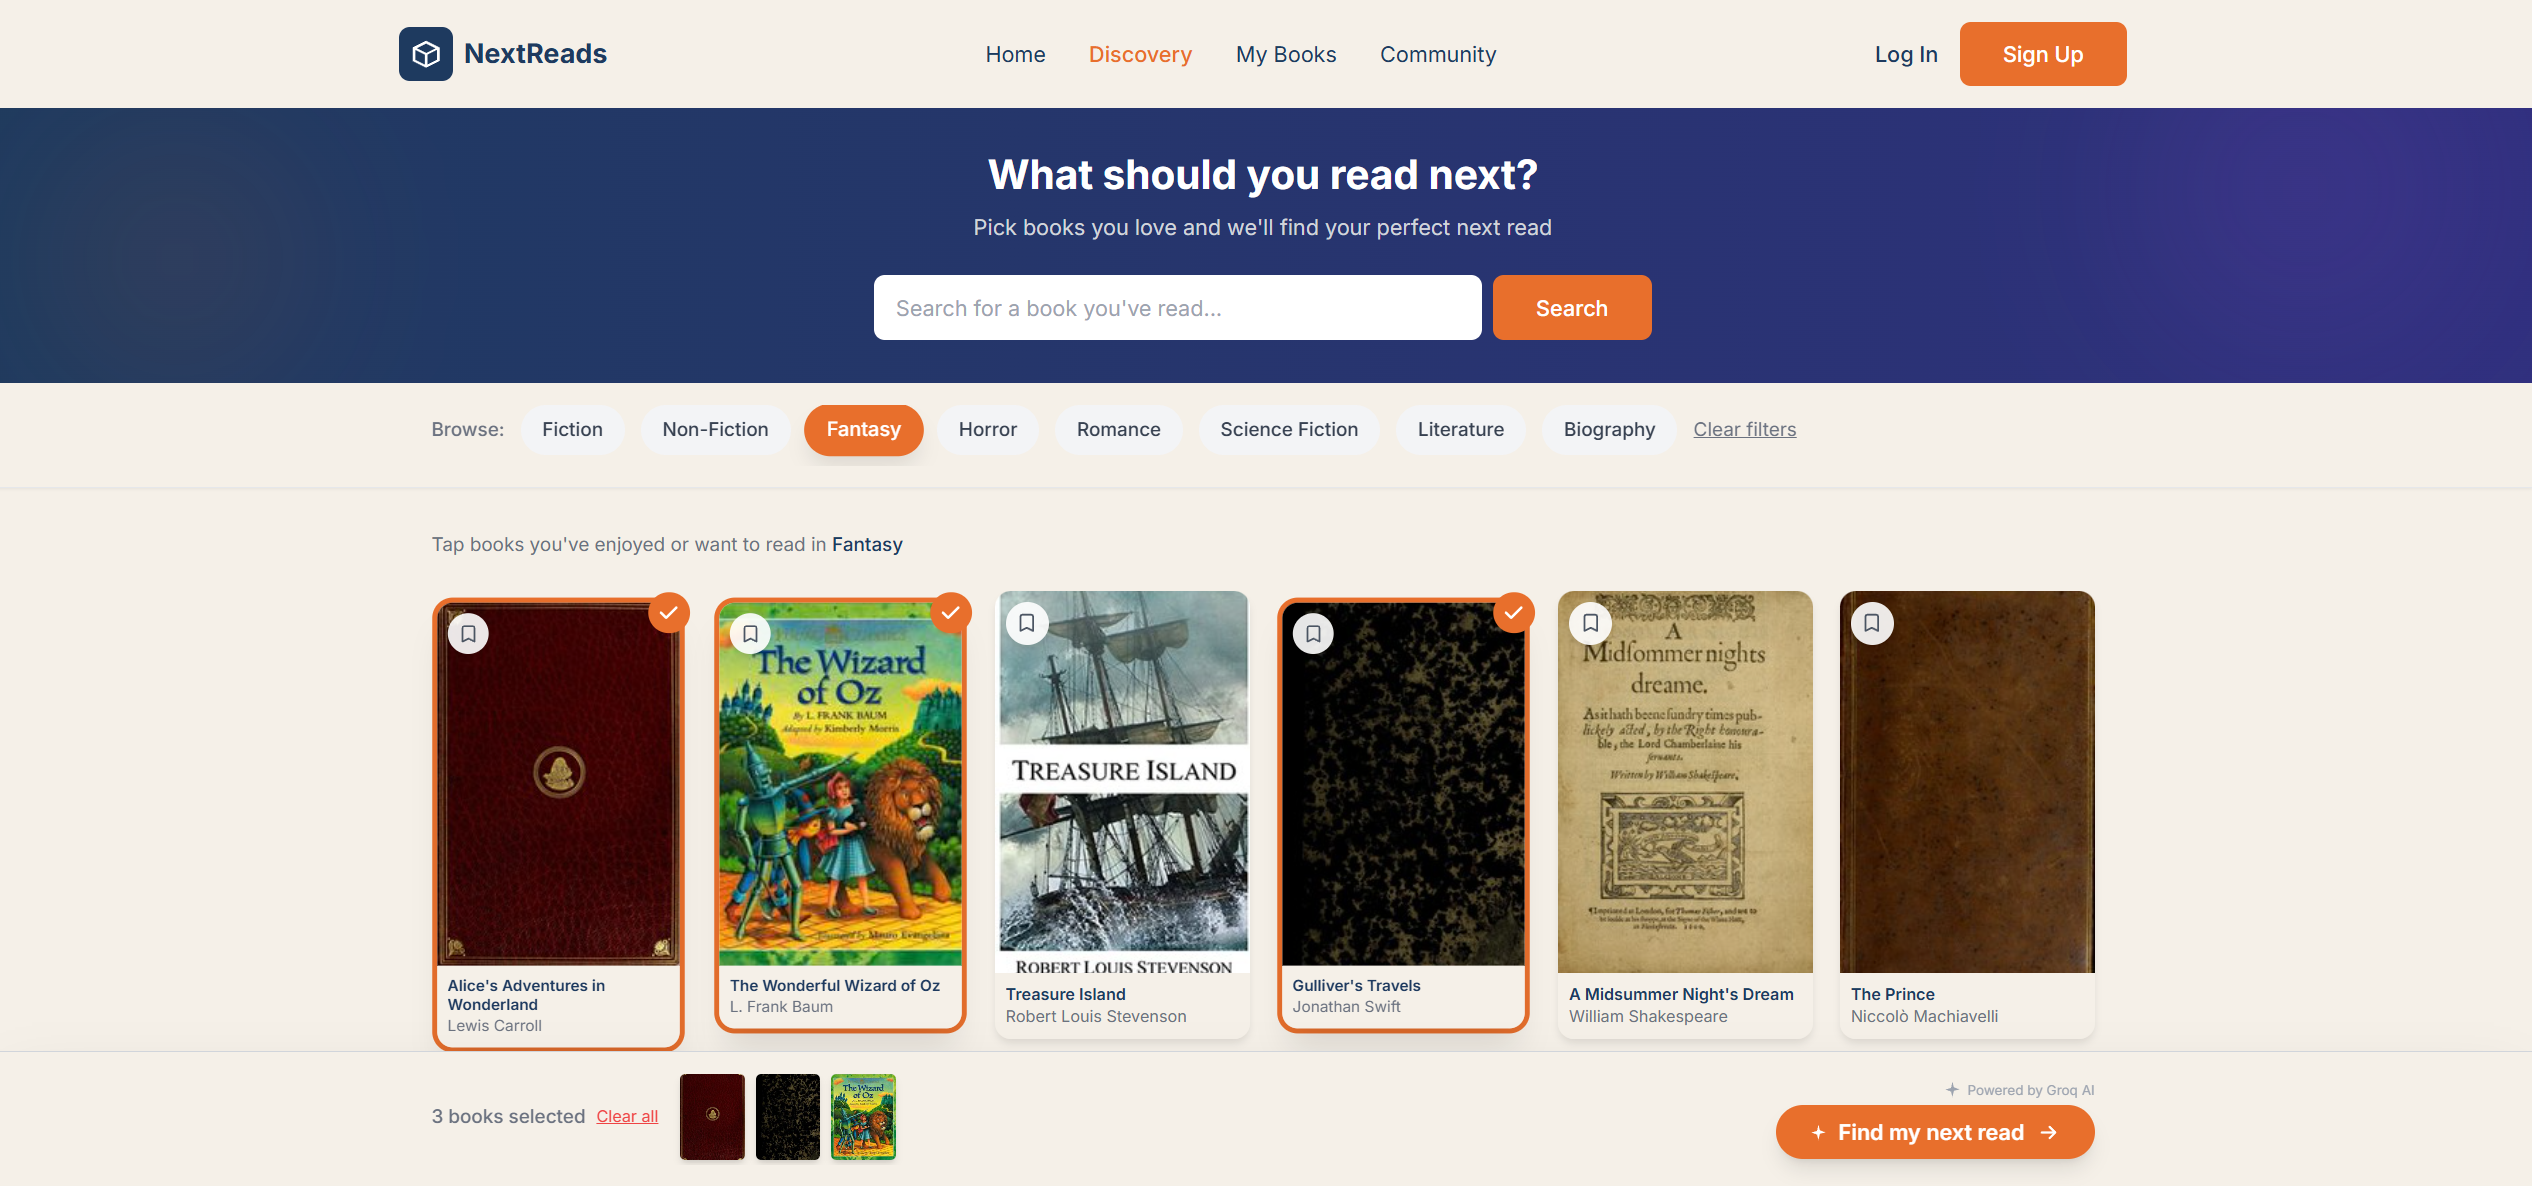
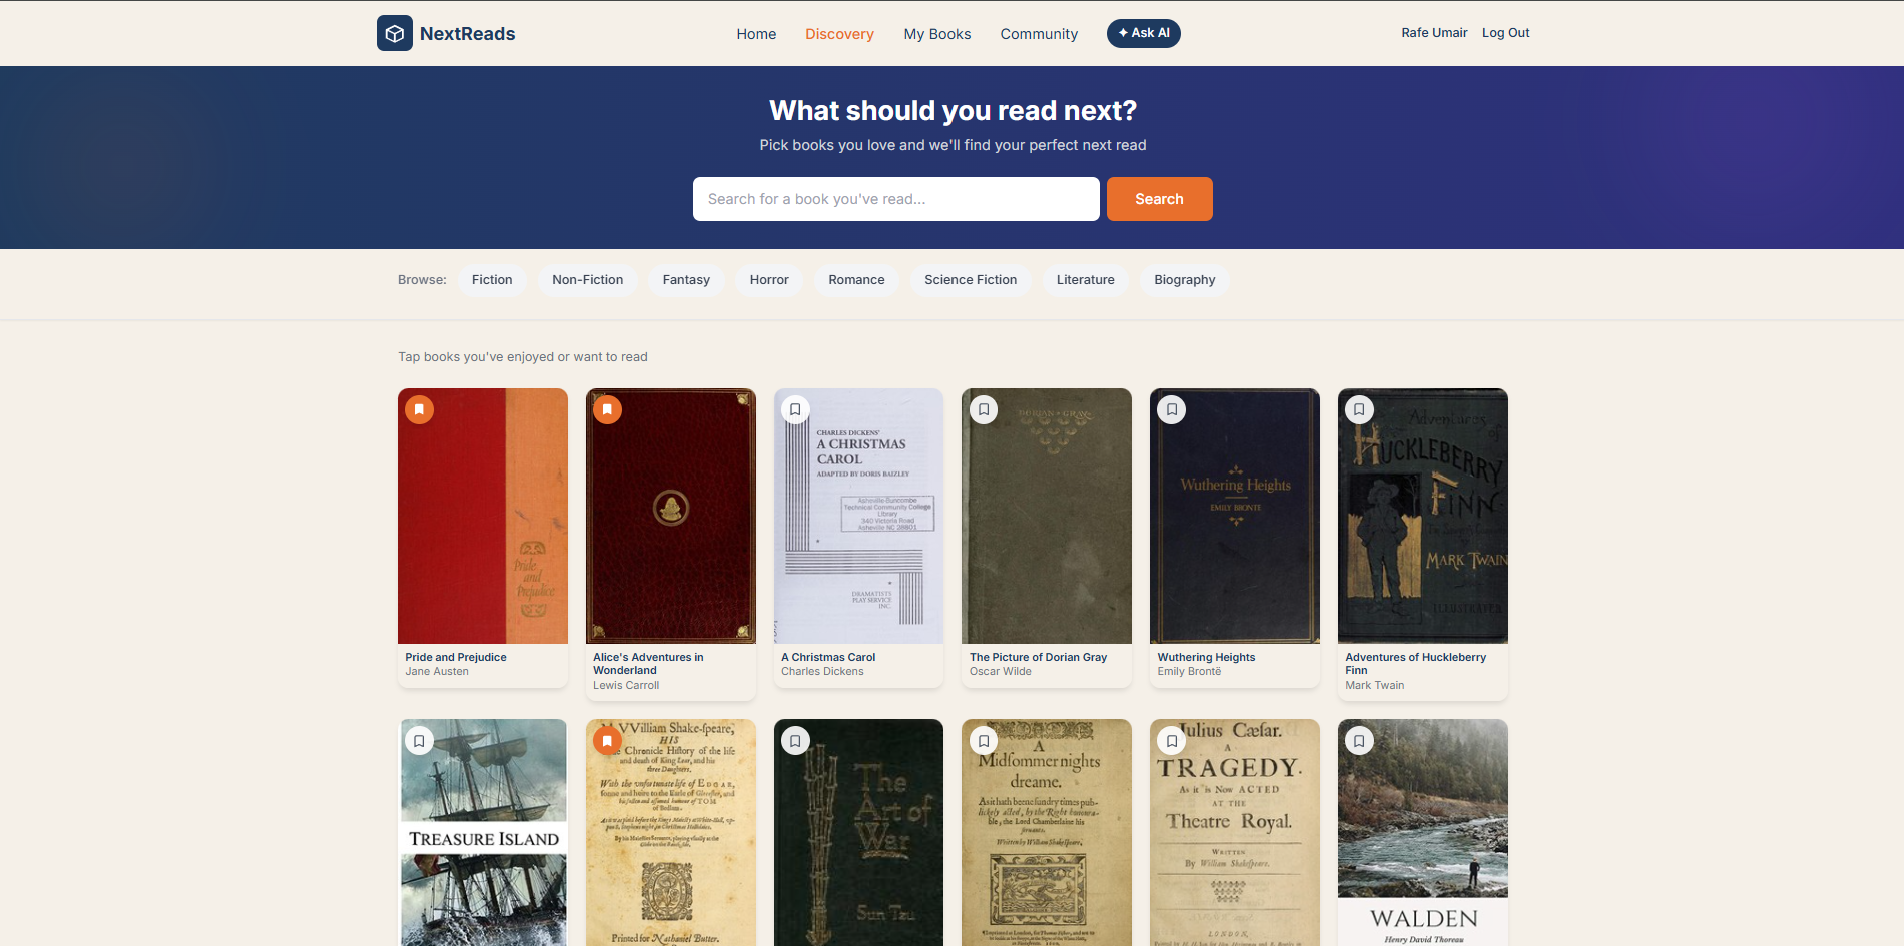
Improved 'NextReads' display

diff --git a/src/components/ProjectSection.jsx b/src/components/ProjectSection.jsx
@@ -4,37 +4,23 @@ import { ChevronLeft, ChevronRight, ExternalLink, Github } from "lucide-react";
 const projects = [
   {
     id: 1,
-    title: "Houser",
-    description:
-    "A Melbourne property price predictor powered by machine learning. Uses a Random Forest model trained on real housing data to estimate prices based on features such as suburb, land size and number of bedrooms.",
-    images: [
-      { src: "/projects/HousePriceHome.png", caption: "Houser Home Page" },
-      { src: "/projects/HousePriceValuation.png", caption: "House Valuation Results" },
-      { src: "/projects/HousePriceMap.png", caption: "Price map visualization" },
-    ],
-    tags: ["React", "FastAPI", "Python", "scikit-learn", "Tailwind CSS", "Leaflet"],
-    demoLink: "https://house-market-predictor.vercel.app/",
-    repoLink: "https://github.com/RafeUmair/houseMarketPredictor",
-    apiLink: "https://housemarketpredictor.onrender.com"
-  },
-  {
-    id: 2,
     title: "NextReads",
     description:
-      "A full stack book discovery and recommendation platform. Built with a Spring Boot REST API and React frontend, featuring AI powered recommendations via Groq (LLaMA 3.1) and Firebase authentication.",
+    "A full stack book discovery platform. Built with a Spring Boot REST API and a React frontend, it aggregates book data from the OpenLibrary API, curates a live literary news feed from multiple RSS sources, and delivers AI powered recommendations via Groq (LLaMA 3.1). This is backed by Firebase Auth and Firestore for user libraries and to support a community activity feed.",
     images: [
-      { src: "/projects/NextReadsHomePage.png", caption: "NextRead Home Page" },
+      { src: "/projects/NextReadsHomePage.png", caption: "NextReads Home Page" },
       { src: "/projects/NextReadsDiscovery.png", caption: "Book Discovery" },
       { src: "/projects/NextReadsMyBooks.png", caption: "My Books" },
+      { src: "/projects/NextReadsCommunity.png", caption: "Community" },
+      { src: "/projects/NextReadsAiChatbot.png", caption: "AI Chatbot" },
     ],
     tags: ["Spring Boot", "React", "Tailwind CSS", "Firebase Auth", "Docker", "Groq (LLaMA 3.1)"],
     demoLink: "https://next-read-phi.vercel.app/",
     repoLink: "https://github.com/RafeUmair/nextRead",
     apiLink: "https://nextread-6l8e.onrender.com/",
-    inDevelopment: true,
   },
   {
-    id: 3,
+    id: 2,
     title: "EduResource",
     description:
      "A full stack educational resource lending system developed for Curtin University's School of Education. The platform includes separate web applications for administrators and students, as well as a dedicated iPad app for tablet based student access. Students can browse, reserve, and loan educational resources, while administrators can manage inventory, users, and loans across the system.",
@@ -48,6 +34,21 @@ const projects = [
       "https://lending-library-admin-web-fe-capdk.ondigitalocean.app/",
     repoLink:
       "https://bitbucket.org/curtincomputingprojects/2024-22-eduresource/src/main/",
+  },
+  {
+    id: 3,
+    title: "Houser",
+    description:
+    "A Melbourne property price predictor powered by machine learning. Uses a Random Forest model trained on real housing data to estimate prices based on features such as suburb, land size and number of bedrooms.",
+    images: [
+      { src: "/projects/HousePriceHome.png", caption: "Houser Home Page" },
+      { src: "/projects/HousePriceValuation.png", caption: "House Valuation Results" },
+      { src: "/projects/HousePriceMap.png", caption: "Price map visualization" },
+    ],
+    tags: ["React", "FastAPI", "Python", "scikit-learn", "Tailwind CSS", "Leaflet"],
+    demoLink: "https://house-market-predictor.vercel.app/",
+    repoLink: "https://github.com/RafeUmair/houseMarketPredictor",
+    apiLink: "https://housemarketpredictor.onrender.com"
   }
 ];
 
